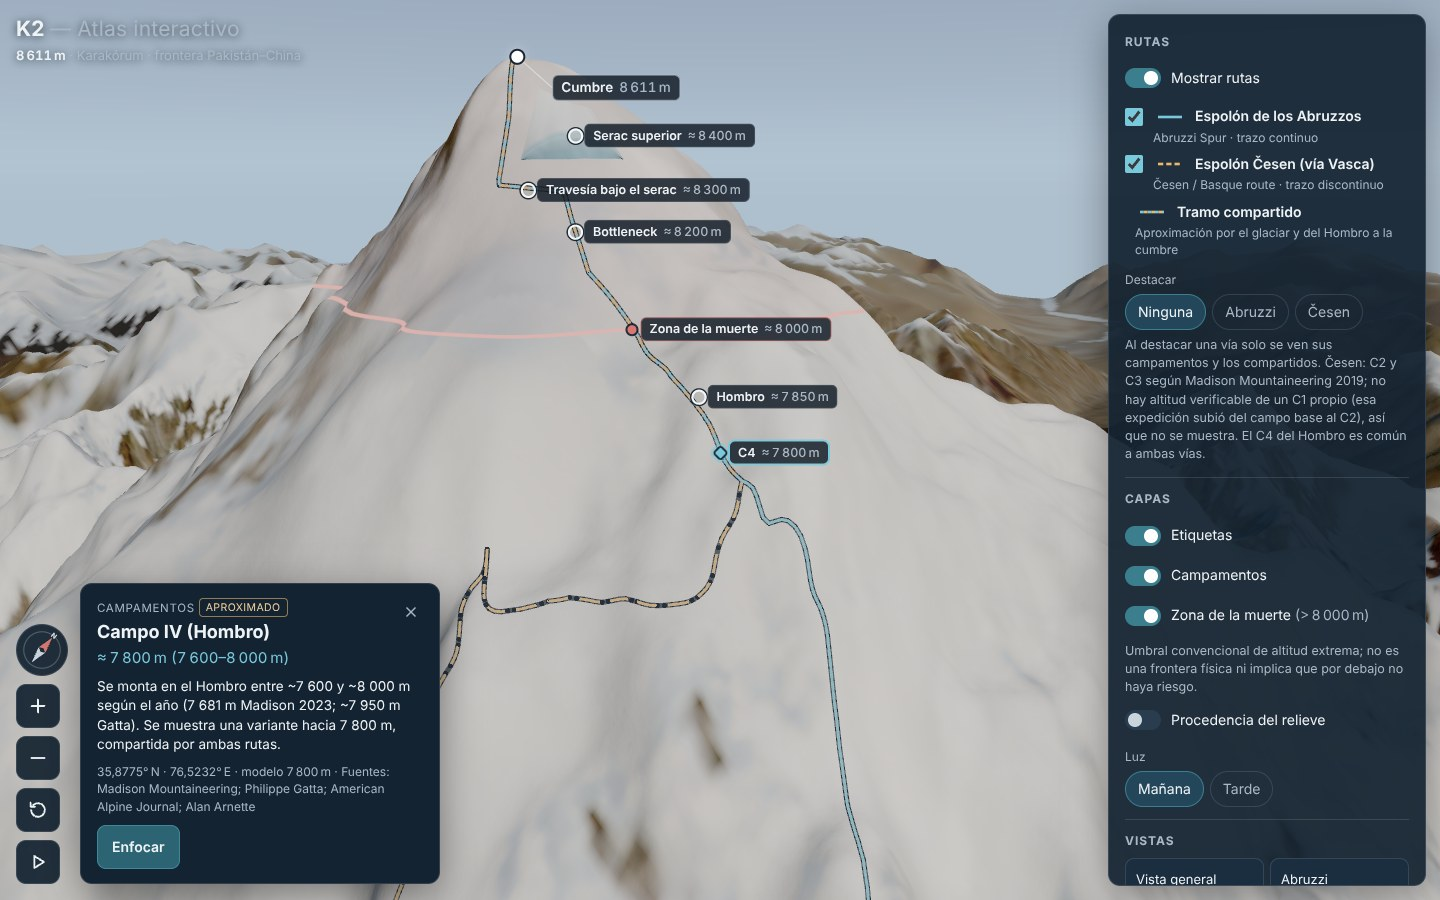
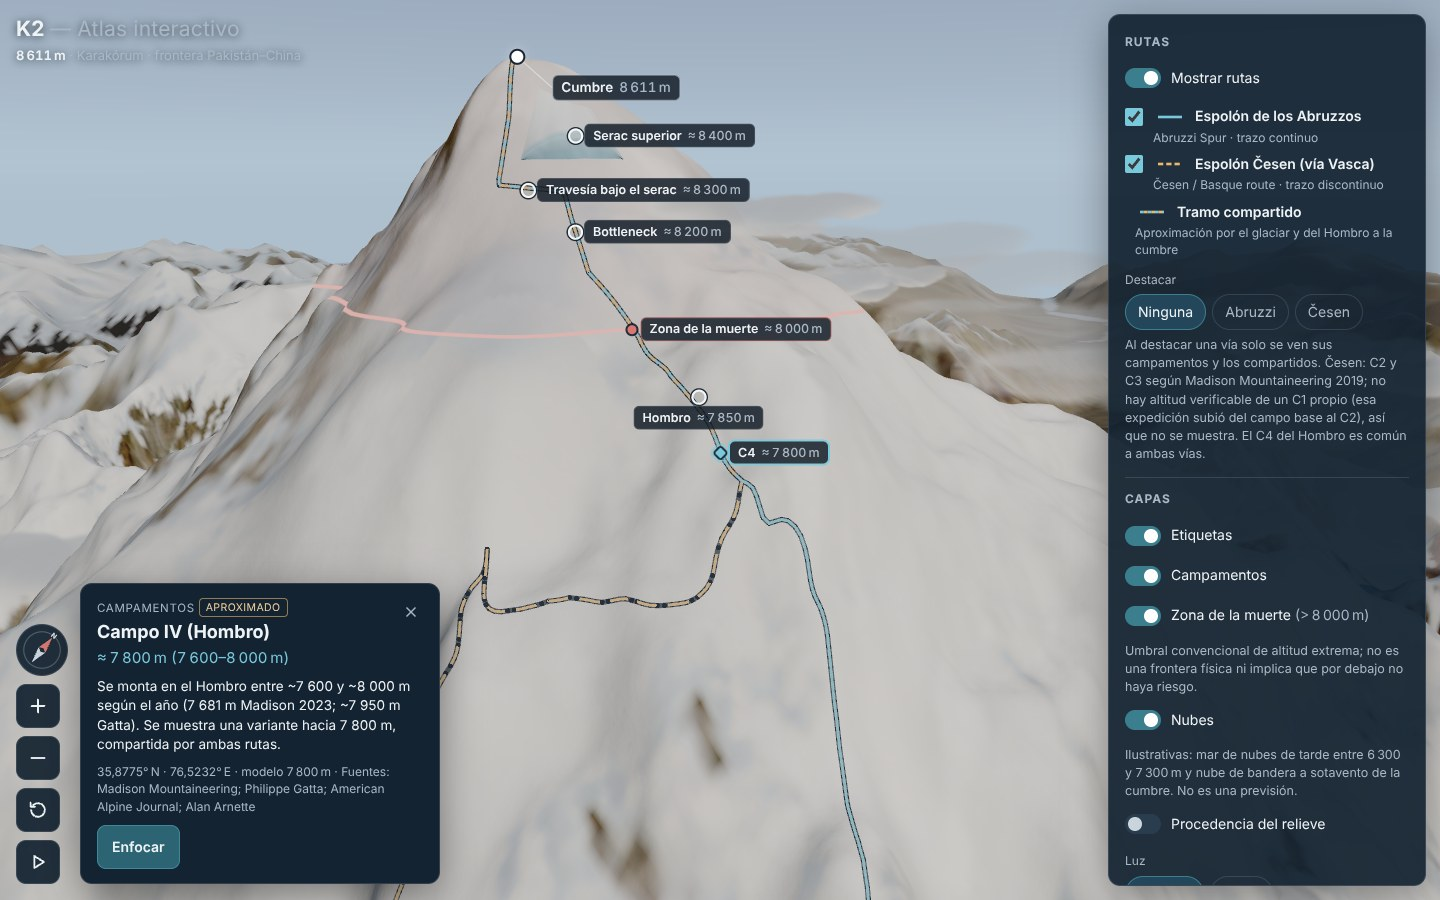
Actualiza verificación, capturas y rendimiento tras quitar los tirones
- docs/VERIFICACION.md: sección «Tirones: dónde estaban y qué se hizo» con el
  perfil por fases antes/después (p95 por fotograma 521 → 1,4 ms; pase de
  sombras en movimiento 144 → 0; subidas a la GPU a mitad de gesto 178 → 0),
  presupuestos con las nubes, 75 unitarias y 17/17 de navegador
- docs/rendimiento.json y docs/capturas: medición y capturas nuevas (con nubes)
- En móvil, las etiquetas reservan el espacio de la ficha desde su borde
  superior (la ficha va sobre la hoja inferior): la del Bottleneck ya no queda
  tapada

Claude-Session: https://claude.ai/code/session_01Cngmc98tcBLkncS8aRBpP3

diff --git a/src/ui/ui.ts b/src/ui/ui.ts
@@ -409,11 +409,12 @@ export class Ui {
       `${formatDegrees(p.geo.lat, 'N', 'S')} · ${formatDegrees(p.geo.lon, 'E', 'O')} · modelo ${formatMeters(p.posicion.altModelo)}` +
       (refs.length ? ` · Fuentes: ${[...new Set(refs)].join('; ')}` : '');
     card.hidden = false;
-    // alto de la ficha, medido una vez al abrirla (no en cada fotograma): las etiquetas lo evitan
-    this.cardHeight = card.getBoundingClientRect().height;
+    // espacio que ocupa la ficha desde su borde superior hasta el pie de la pantalla (incluye la
+    // hoja inferior bajo ella), medido una vez al abrirla, no en cada fotograma
+    this.cardHeight = Math.max(0, window.innerHeight - card.getBoundingClientRect().top);
   }
 
-  /** Alto de la ficha abierta en px CSS (0 si está cerrada). */
+  /** Alto ocupado por la ficha abierta, desde su borde superior hasta abajo (px CSS; 0 si está cerrada). */
   cardHeight = 0;
 
   /** Rota la brújula para que su N apunte al norte geográfico del modelo. */

diff --git a/src/app.ts b/src/app.ts
@@ -318,7 +318,7 @@ export class App implements UiActions {
   private markerInsets() {
     const mobile = this.width <= 760;
     // en móvil la ficha abierta ocupa la parte baja: las etiquetas se colocan por encima
-    const card = mobile && this.ui.cardHeight ? this.ui.cardHeight + 24 : 0;
+    const card = mobile && this.ui.cardHeight ? this.ui.cardHeight + 12 : 0;
     return mobile ? { top: 64, bottom: Math.max(60, card), left: 6, right: 62 } : { top: 70, bottom: 8, left: 70, right: 346 };
   }
 

diff --git a/docs/VERIFICACION.md b/docs/VERIFICACION.md
@@ -19,7 +19,7 @@ software** (ANGLE → Vulkan → SwiftShader). Fecha: 7 de octubre de 2026.
 | --- | --- | --- |
 | Tipos | `npm run typecheck` | ✓ sin errores (TypeScript 6, `strict`) |
 | Lint | `npm run lint` | ✓ sin avisos (ESLint 10 + typescript-eslint; los módulos puros no pueden usar el DOM) |
-| Tests unitarios | `npm test` | ✓ **68/68** en 12 archivos (Vitest 5) |
+| Tests unitarios | `npm test` | ✓ **75/75** en 13 archivos (Vitest 5) |
 | Build de producción | `npm run build` | ✓ JS 662 kB (174 kB gzip) + worker 12 kB + CSS 14 kB |
 | Tests de navegador | `npm run test:e2e` | ✓ **17/17** en Chromium (Playwright 1.56), escritorio 1440×900 y móvil 390×844 emulado |
 | Pipeline de datos | `bash pipeline/run_all.sh` | ✓ ejecutado de principio a fin en este entorno; genera `public/data` y los fixtures de los tests |
@@ -81,12 +81,12 @@ principal**. Lienzo de 1440×900, cada vista asentada (LOD final).
 
 | Vista | Baja: calls · triángulos | Media | Alta |
 | --- | --- | --- | --- |
-| Vista general | 33 · 227 k | 54 · 483 k | 72 · 947 k |
-| Abruzzi | 34 · 228 k | 49 · 487 k | 59 · 718 k |
-| Hombro y Campo IV | 30 · 237 k | 42 · 462 k | 42 · 462 k |
-| Bottleneck y serac | 24 · 226 k | 32 · 400 k | 32 · 400 k |
-| Cumbre | 24 · 226 k | 32 · 400 k | 32 · 400 k |
-| Cara norte | 33 · 240 k | 54 · 452 k | 72 · 930 k |
+| Vista general | 34 · 227 k | 55 · 483 k | 73 · 947 k |
+| Abruzzi | 35 · 228 k | 50 · 488 k | 60 · 719 k |
+| Hombro y Campo IV | 31 · 237 k | 43 · 463 k | 43 · 463 k |
+| Bottleneck y serac | 25 · 226 k | 33 · 400 k | 33 · 400 k |
+| Cumbre | 25 · 226 k | 33 · 400 k | 33 · 400 k |
+| Cara norte | 34 · 240 k | 55 · 452 k | 73 · 930 k |
 | **Presupuesto** | **70 · 250 k** | **100 · 500 k** | **150 · 1,2 M** |
 
 Cómo se cumple:
@@ -102,11 +102,12 @@ Cómo se cumple:
 - **Recorte por caja** contra el frustum (más ajustado que la esfera de three.js);
   el pase de sombras sigue viendo los bloques de fuera del encuadre.
 - **Contorno de las rutas** desactivado en Baja (5 draw calls menos).
+- **Nubes**: un draw call instanciado (30 / 56 / 97 copos en Baja / Media / Alta).
 
 **Peor caso**: se evaluaron 23 512 poses alcanzables (25 objetivos repartidos por
 el núcleo, distancias de 1 a 24 km, inclinaciones de 4° a 87° y orientaciones
 cada 10°). En Baja el terreno necesita como máximo **42 mallas**,
-51 draw calls en total. Sin el quadtree el máximo era 71 mallas (80 draw calls);
+52 draw calls en total con las nubes. Sin el quadtree el máximo era 71 mallas (80 draw calls);
 ese análisis es el que motivó añadirlo.
 
 **Memoria de texturas (estimación)**: 27 MiB de texturas de terreno (albedo,
@@ -114,7 +115,46 @@ máscaras, normales, procedencia y microdetalle en RGBA8 con mipmaps) más el ma
 de sombras (Media 16 MiB, Alta 64 MiB): Baja 27/48, Media 43/80 y Alta 91/160 MiB.
 Es una estimación por formato y dimensiones: no una medida de memoria de GPU.
 
-## 4. Rendimiento (3 escenarios × 30 s)
+## 4. Tirones: dónde estaban y qué se hizo
+
+Perfil por fases de cada fotograma (cámara, LOD, render, pase de sombras, etiquetas)
+durante el mismo guion de interacción (tres arrastres de órbita, seis pasos de rueda y
+dos cambios de vista), perfil Media, lienzo 640×400, SwiftShader. Los tiempos
+absolutos son de la GPU emulada; lo que importa es dónde aparecen los picos:
+
+| Medida en la interacción | Antes | Después |
+| --- | ---: | ---: |
+| Fotogramas completados en el mismo guion | 1 883 | **4 862** |
+| Coste por fotograma en el hilo principal, p95 | 521 ms | **1,4 ms** |
+| Pase de sombras rehecho en movimiento | 144 veces | **0** |
+| Geometrías subidas a la GPU a mitad de un gesto | 178 | **0** |
+| Programas de shader compilados a mitad de un gesto | 0 | 0 |
+| Cámara, LOD y etiquetas (máx. por fotograma) | ≤ 4 ms | ≤ 4 ms |
+
+Causas encontradas y arreglos:
+
+1. **Sombras**: cada cambio de nivel de detalle marcaba el mapa de sombras como sucio
+   y se rehacía cada ~260 ms mientras la cámara se movía (hasta 4096² y ~1 M de
+   triángulos). Ahora proyecta las sombras una copia estática del relieve que solo se
+   dibuja en el pase de sombras: se rehace al cambiar la luz o la calidad, nunca al
+   moverse.
+2. **Subidas a la GPU**: cada nivel de LOD se subía la primera vez que se veía. Ahora
+   las 380 geometrías y todas las texturas se suben tras la pantalla de carga
+   (dibujándolas una vez en un destino de 1×1 píxel).
+3. **Cambios de calidad**: Auto cambiaba de perfil a mitad del gesto y, al cambiar la
+   anisotropía, volvía a subir todas las texturas. Ahora el cambio espera a que la
+   cámara esté quieta y la anisotropía queda fija desde la carga. En escritorio se
+   arranca en Media salvo GPU dedicada reconocible; Auto sube a Alta si hay margen.
+4. **Picos pequeños**: la oclusión de etiquetas lanzaba todos los rayos en el mismo
+   fotograma (ahora 4 por fotograma, en turno); la selección de LOD creaba arrays en
+   cada fotograma (ahora búferes reutilizados); Auto ordenaba 90 muestras en cada
+   fotograma (ahora cada 10).
+
+Pulido relacionado: las etiquetas conservan su posición del fotograma anterior si
+sigue libre (no saltan de lado mientras se gira) y en móvil se colocan por encima de
+la ficha abierta.
+
+## 5. Rendimiento (3 escenarios × 30 s)
 
 `npm run perf` contra la build de producción (`vite preview`). La cámara recorre
 una órbita determinista (0,6° por fotograma) y los intervalos se toman con
@@ -122,48 +162,48 @@ una órbita determinista (0,6° por fotograma) y los intervalos se toman con
 
 | Perfil | Escenario | Mediana | p95 | Fotogramas | Máx. draw calls · triángulos | CPU hilo principal (med / p95) | Lienzo |
 | --- | --- | ---: | ---: | ---: | ---: | ---: | --- |
-| Baja | Órbita general | 1 183 ms | 3 333 ms | 18 | 34 · 234 k | 1,5 / 2,7 ms | 1440×900 |
-| Baja | Enfoque del Bottleneck | 1 050 ms | 2 350 ms | 24 | 28 · 242 k | 1,0 / 1,6 ms | 1440×900 |
-| Baja | Todas las capas activas | 1 116 ms | 3 567 ms | 20 | 34 · 249 k | 1,0 / 2,4 ms | 1440×900 |
-| Media | Órbita general | 2 533 ms | 4 466 ms | 11 | 55 · 487 k | 1,4 / 2,0 ms | 1440×900 |
-| Media | Enfoque del Bottleneck | 2 600 ms | 6 233 ms | 11 | 33 · 412 k | 1,2 / 2,0 ms | 1440×900 |
-| Media | Todas las capas activas | 2 200 ms | 5 666 ms | 11 | 57 · 499 k | 1,7 / 2,3 ms | 1440×900 |
-| Alta | Órbita general | 4 216 ms | 5 166 ms | 7 | 72 · 947 k | 1,6 / 2,5 ms | 1440×900 |
-| Alta | Enfoque del Bottleneck | 8 866 ms | 8 866 ms | 3 | 32 · 400 k | 1,3 / 1,4 ms | 1440×900 |
-| Alta | Todas las capas activas | 2 700 ms | 8 450 ms | 8 | 72 · 947 k | 1,5 / 2,3 ms | 1440×900 |
+| Baja | Órbita general | 1 117 ms | 2 900 ms | 20 | 35 · 234 k | 1,3 / 1,6 ms | 1440×900 |
+| Baja | Enfoque del Bottleneck | 900 ms | 2 550 ms | 29 | 29 · 242 k | 1,2 / 2,4 ms | 1440×900 |
+| Baja | Todas las capas activas | 1 033 ms | 2 366 ms | 25 | 35 · 249 k | 1,2 / 3,2 ms | 1440×900 |
+| Media | Órbita general | 1 900 ms | 3 950 ms | 17 | 58 · 491 k | 1,7 / 3,4 ms | 1440×900 |
+| Media | Enfoque del Bottleneck | 3 117 ms | 3 950 ms | 11 | 34 · 412 k | 1,2 / 1,7 ms | 1440×900 |
+| Media | Todas las capas activas | 1 883 ms | 4 450 ms | 12 | 58 · 500 k | 1,6 / 4,7 ms | 1440×900 |
+| Alta | Órbita general | 3 550 ms | 7 150 ms | 9 | 74 · 950 k | 1,8 / 2,1 ms | 1440×900 |
+| Alta | Enfoque del Bottleneck | 3 833 ms | 8 083 ms | 4 | 33 · 400 k | 1,3 / 1,5 ms | 1440×900 |
+| Alta | Todas las capas activas | 4 000 ms | 4 966 ms | 9 | 73 · 947 k | 2,4 / 7,2 ms | 1440×900 |
 
 Entorno registrado por el script: `ANGLE (Google, Vulkan 1.3.0 (SwiftShader Device (Subzero) (0x0000C0DE)), SwiftShader driver)`, 4 núcleos, DPR 1. Los máximos de draw calls y triángulos son los de toda la ventana de 30 s, no solo del último fotograma.
 
 **Lectura**: el intervalo entre fotogramas (de 1 a 9 s) es el coste de rasterizar en la CPU con SwiftShader y no predice los FPS en una GPU. Lo transferible es: (1) el coste del hilo principal, de 1 a 3 ms por fotograma, lejos de los 16,7 ms de un objetivo de 60 FPS; (2) los recuentos de geometría, idénticos en cualquier GPU y dentro del presupuesto durante toda la órbita.
 
-## 5. Recursos en ciclos repetidos
+## 6. Recursos en ciclos repetidos
 
 Prueba e2e «20 ciclos…» (dos tandas de 20: rutas, destacado, zona de la muerte, procedencia, vista y enfoque de un punto en cada ciclo):
 
 | Medida | Inicio | Tras 20 ciclos | Tras 40 ciclos |
 | --- | ---: | ---: | ---: |
-| Geometrías subidas a la GPU (existen 379) | 62 | 127 | 127 |
-| Texturas | 13 | 13 | 13 |
-| Objetos en la escena | 124 | 124 | 124 |
+| Geometrías subidas a la GPU (existen 380) | 380 | 380 | 380 |
+| Texturas | 15 | 15 | 15 |
+| Objetos en la escena | 209 | 209 | 209 |
 | Marcadores en el DOM | 19 | 19 | 19 |
-| Montón de JavaScript | 51,7 MiB | 50,9 MiB | 50,9 MiB |
+| Montón de JavaScript | 54,5 MiB | 52,9 MiB | 52,9 MiB |
 
-Todas las geometrías (cada nivel de LOD y cada padre 2×2) se crean al cargar; los ciclos solo suben a la GPU niveles aún no usados y nunca superan las que existen. Texturas, objetos y marcadores no cambian. El montón de JavaScript se lee tras forzar la recolección de basura (`gc()` expuesto y memoria precisa en la configuración de Playwright) y se mantiene estable; es un indicio de que no hay fugas en JavaScript, no una medida de memoria de GPU. Cambiar de calidad cuatro veces tampoco duplica objetos ni pierde la selección (prueba aparte).
+Todas las geometrías (cada nivel de LOD, cada padre 2×2 y los proyectores de sombra) se suben a la GPU tras la pantalla de carga, así que el recuento queda fijo durante los ciclos: ninguna se crea ni se sube después. Texturas, objetos y marcadores no cambian. El montón de JavaScript se lee tras forzar la recolección de basura (`gc()` expuesto y memoria precisa en la configuración de Playwright) y se mantiene estable; es un indicio de que no hay fugas en JavaScript, no una medida de memoria de GPU. Cambiar de calidad cuatro veces tampoco duplica objetos ni pierde la selección (prueba aparte).
 
-## 6. Carga
+## 7. Carga
 
 | Medida | Valor |
 | --- | --- |
 | Datos descargados para la escena | 2,3 MiB (alturas 0,8 · imagen y máscaras 1,3 · procedencia 0,2 · JSON 0,1) |
 | Código | 174 kB gzip (+ worker 5 kB) |
 | Total inicial | ≈ 2,5 MiB (presupuesto ≤ 20 MB) |
-| Tiempos en este entorno | descarga 506 ms · relieve en el worker 1 168 ms · escena 280 ms · total 1 964 ms (servidor local) |
+| Tiempos en este entorno | descarga 140 ms · relieve en el worker 408 ms · escena 424 ms · total 977 ms (servidor local) |
 
 La preparación pesada (decodificar PNG, construir mallas y normales, rejilla de
 holgura) ocurre en un Web Worker; si el navegador no permite workers, se hace en
 el hilo principal.
 
-## 7. Lo que no se pudo verificar
+## 8. Lo que no se pudo verificar
 
 - **FPS en una GPU real**, de escritorio o de teléfono: el contenedor no tiene
   GPU. El script admite `PERF_GPU=1 npm run perf` para medirlo en un equipo real.
